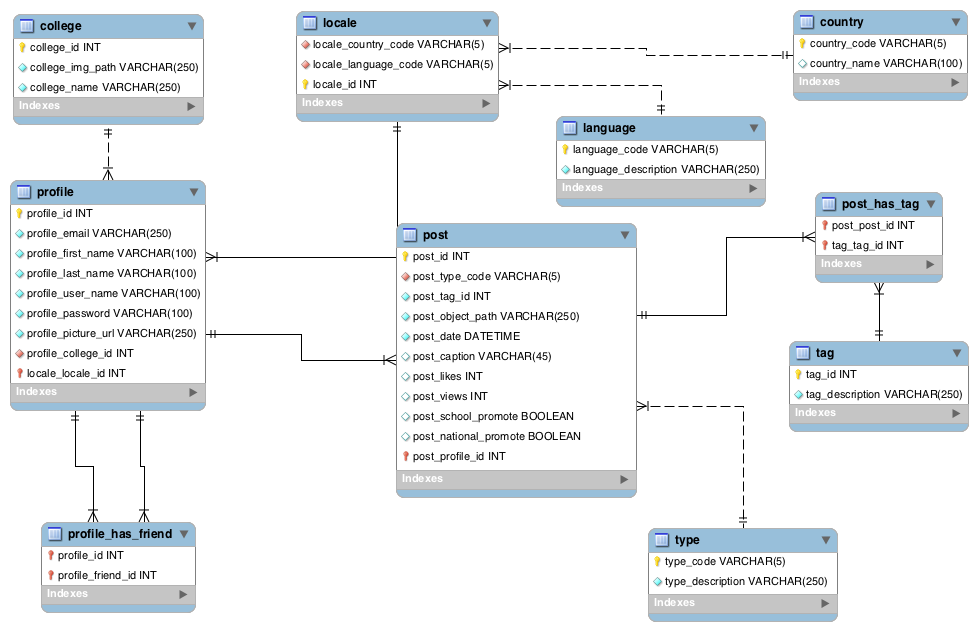
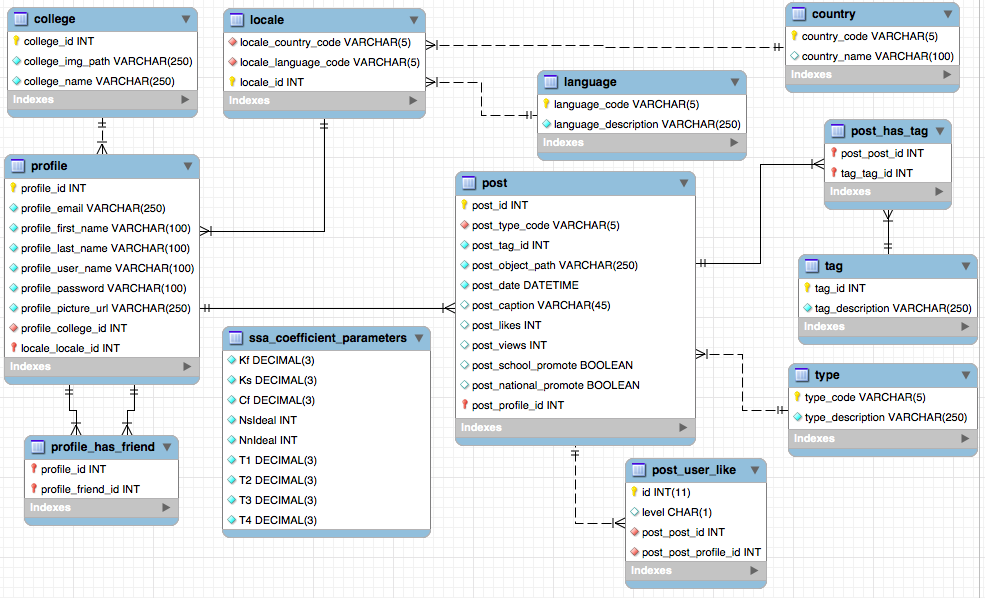
Updated SSA SQLs

diff --git a/Mote/src/main/java/com/mt/models/dao/PostDao.java b/Mote/src/main/java/com/mt/models/dao/PostDao.java
@@ -61,10 +61,14 @@ public class PostDao {
 	 * Instead of using a List<Post> what other existing Java collections data structure I could use that would do
 	 * this process more efficiently for time complexity [performance] and space complexity [memory footprint].
 	 */
-	
+	/**
+	 * old:  SELECT P FROM Post as P WHERE post_school_promote = false AND post_national_promote = false ORDER BY postDate DESC
+	 * new:  SELECT P FROM Post as P WHERE P.post_school_promote = false AND P.post_national_promote = false ORDER BY P.post_date DESC
+	 * @return
+	 */
 	@SuppressWarnings("unchecked")
 	public List<Post> getFriendFeedPosts() {
-		return _entityManager.createQuery("SELECT P FROM Post as P WHERE school_promote = false AND national_promote = false ORDER BY postDate DESC")
+		return _entityManager.createQuery("SELECT P FROM Post as P WHERE P.postSchoolPromote = false AND P.postNationalPromote = false ORDER BY P.postDate DESC")
 				.getResultList();
 	}
 	
@@ -72,12 +76,12 @@ public class PostDao {
 		
 		//Q. Which logic updates the school_promote? So that we can calculate Ns.
 		//Ans. See the method promotePostToSchoolFeed, which is called after algorithm calculation
-		return (Long)_entityManager.createQuery("SELECT COUNT(P.school_promote) AS Ns FROM Post as P WHERE school_promote = true")
+		return (Long)_entityManager.createQuery("SELECT COUNT(P.postSchoolPromote) AS Ns FROM Post as P WHERE P.postSchoolPromote = true")
 				.getSingleResult();
 	}
 	
 	public int promotePostToSchoolFeed(long postId) {
-		return _entityManager.createQuery("UPDATE Post SET school_promote = true WHERE id = :postId")
+		return _entityManager.createQuery("UPDATE Post SET P.postSchoolPromote = true WHERE P.postId = :postId")
 				.setParameter("postId", postId)
 				.executeUpdate();
 	}
@@ -86,7 +90,7 @@ public class PostDao {
 	
 	@SuppressWarnings("unchecked")
 	public List<Post> getSchoolFeedPosts() {
-		return _entityManager.createQuery("SELECT P FROM Post as P WHERE school_promote = true AND national_promote = false ORDER BY postDate DESC")
+		return _entityManager.createQuery("SELECT P FROM Post as P WHERE P.postSchoolPromote = true AND P.postNationalPromote = false ORDER BY P.postDate DESC")
 				.getResultList();
 	}
 	
@@ -99,7 +103,7 @@ public class PostDao {
 	 * @return
 	 */
 	public Long getCl(long collegeId) {
-		return (Long)_entityManager.createQuery("SELECT SUM(likes) AS Cl FROM Post as P JOIN User as U WHERE P.profileId = U.profileId AND U.profileCollege.collegeId = :collegeId")
+		return (Long)_entityManager.createQuery("SELECT SUM(P.likes) AS Cl FROM Post as P JOIN Profile as U ON P.profileId = U.profileId WHERE U.profileCollege = :collegeId")
 				.setParameter("collegeId", collegeId)
 				.getSingleResult();
 	}
@@ -113,7 +117,7 @@ public class PostDao {
 	 * @return
 	 */
 	public Long getClIdealAvg(long collegeId) {
-		return (Long)_entityManager.createQuery("SELECT SUM(likes) AS Cl FROM Post as P WHERE college_id = :collegeId")
+		return (Long)_entityManager.createQuery("SELECT SUM(P.likes) AS Cl FROM Post as P JOIN Profile as U ON P.profileId = U.profileId")
 				.setParameter("collegeId", collegeId)
 				.getSingleResult();
 	}
@@ -127,13 +131,13 @@ public class PostDao {
 	 * @return
 	 */
 	public Long getCpn(long collegeId) {
-		return (Long)_entityManager.createQuery("SELECT COUNT(*) AS Cpn FROM Post as P WHERE college_id = :collegeId")
+		return (Long)_entityManager.createQuery("SELECT COUNT(P.postId) AS Cpn FROM Post as P JOIN Profile as U ON P.profileId = U.profileId WHERE U.profileCollege = :collegeId")
 				.setParameter("collegeId", collegeId)
 				.getSingleResult();
 	}
 	
 	public int promotePostToNationalFeed(long postId) {
-		return _entityManager.createQuery("UPDATE Post SET national_promote = true WHERE id = :postId")
+		return _entityManager.createQuery("UPDATE Post as P SET P.postNationalPromote = true WHERE P.postId = :postId")
 				.setParameter("postId", postId)
 				.executeUpdate();
 	}

diff --git a/Mote/src/main/java/com/mt/models/dao/UserDao.java b/Mote/src/main/java/com/mt/models/dao/UserDao.java
@@ -152,39 +152,64 @@ public class UserDao{
 	 * @return
 	 */
 	public Long getCr(long collegeId) {
-		return (Long)_entityManager.createQuery("SELECT COUNT(user_id) AS Cr FROM User as U WHERE college_id = :collegeId")
+		return (Long)_entityManager.createQuery("SELECT COUNT(U.profileId) AS Cr FROM Profile as U WHERE U.profile_college_id = :collegeId")
 				.setParameter("collegeId", collegeId)
 				.getSingleResult();
 	}
 	
 	/**
 	 * CrIdealAvg - the average number of 'people' registered per school.
+	 * CrIdealAvg - the average number of 'people' registered by the total number of register schools.
+	 * 
 	 * New Data Model
 	 * SELECT A.idcollege, COUNT(B.idprofile) FROM college A JOIN profile B ON A.idprofile = B.idprofile GROUP BY A.idcollege
 	 * 
 	 * select sum(TempTable.ProfileTotal)/TempTable.count(*) From (select a.idcollege College, count(b.idprofile) ProfileTotal from college A join profile B on a.idcollege=b.college) TempTable
 	 * 
 	 * declare cursor c_average
-select a.idcollege College, count(b.idprofile) ProfileTotal from college A join profile B on a.idcollege=b.college;
-
-
-SchoolNumber Int;
-TotalStudents int;
-
-For each row in c_average
-  SchoolNumber ++;
-  TotalStudents=  profileTotal + TotalStudents;
-End For
-
-Average= TotalStudetns/SchoolNumber;
-
-Return Average
+	 * select a.collegeId College, count(b.profileId) ProfileTotal from college A join profile B on a.collegeId=b.profileCollegeId;
+	 * 
+	 * SchoolNumber Int;
+	 * TotalStudents int;
+	 * 
+	 * For each row in c_average
+	 *   SchoolNumber ++;
+	 *   TotalStudents=  profileTotal + TotalStudents;
+	 * End For
+	 * 
+	 * Average= TotalStudetns/SchoolNumber;
+	 * 
+	 * Return Average
+	 * 
+	 * 
+	 * collegeID      profile total
+	 *    FSU             1,500
+	 *    UVA             500
+	 *    NCSU            500
+	 *    
+	 * SchoolNumber = 3
+	 * TotalStudents = 2,000
+	 * 
+	 * Average = 2,000 / 3
 	 * 
 	 * @param collegeId
 	 * @return
 	 */
 	public Long getCrIdealAvg() {
-		return (Long)_entityManager.createQuery("SELECT COUNT(user_id) AS Cr FROM User as U WHERE college_id = :collegeId")
+		return (Long)_entityManager.createQuery("declare cursor c_average "
+				+ "SELECT C.collegeId College, COUNT(U.profileId) ProfileTotal FROM college C JOIN profile U ON C.collegeId = U.profileCollegeId;"
+				+ ""
+				+ "SchoolNumber Int;"
+				+ "TotalStudents int;"
+				+ ""
+				+ "For each row in c_average"
+				+ "  SchoolNumber ++;"
+				+ "  TotalStudents=  profileTotal + TotalStudents;"
+				+ "End For"
+				+ ""
+				+ "Average = TotalStudetns / SchoolNumber;"
+				+ ""
+				+ "Return Average")
 				.getSingleResult();
 	}
 }

diff --git a/Mote/src/main/java/com/mt/algorithm/ssa/SSAJob.java b/Mote/src/main/java/com/mt/algorithm/ssa/SSAJob.java
@@ -53,7 +53,7 @@ public class SSAJob {
 		 * 
 		 * To get the count of school and 
 		 *  
-		 * First I'll algorithm working and then I'll improve performance/memory footprint.
+		 * First I'll get the algorithm working and then I'll improve performance/memory footprint.
 		 */
 		
 		for(int i = 0; i < friendPosts.size(); i++) {
@@ -71,9 +71,9 @@ public class SSAJob {
 	
 	/**
 	 * 
-	 * @param V
-	 * @param L
-	 * @param Ns
+	 * @param V a long value that represents the number of 'views' on a post.
+	 * @param L a long value that represents the number of 'likes' on a post.
+	 * @param Ns a long value that represents the number of 'posts' in School Feed.
 	 * @param postId
 	 */
 	public void examineFriendFeedPost(long V, long L, long Ns, long postId) {
@@ -87,7 +87,7 @@ public class SSAJob {
 	
 	/**
 	 * 
-	 * @param Ns
+	 * @param Ns a long value that represents the number of 'posts' in School Feed.
 	 * @param schoolPost
 	 */
 	public void examineSchoolFeedPost(long Ns, Post schoolPost) {
@@ -102,7 +102,7 @@ public class SSAJob {
 		long Cr = _userDao.getCr(collegeId);
 		long Cl = _postDao.getCl(collegeId);
 		long Cpn = _postDao.getCpn(collegeId);
-		double CrIdealAvg = 0.0; //pending!
+		double CrIdealAvg = _userDao.getCrIdealAvg(); //pending!
 		double ClIdealAvg = 0.0; //pending!
 		double CpnAvg = 0.0; //pending!
 		

diff --git a/Mote/src/main/java/com/mt/models/Post.java b/Mote/src/main/java/com/mt/models/Post.java
@@ -48,10 +48,10 @@ public class Post {
 	@Column(name="post_caption")
 	private String postCaption;
 
-	@Column(name="views")
+	@Column(name="post_views")
 	private long views;
 
-	@Column(name="likes")
+	@Column(name="post_likes")
 	private long likes;
 
 	@Column(name="post_school_promote")

diff --git a/Mote/src/main/java/com/mt/algorithm/ssa/SSACalculator.java b/Mote/src/main/java/com/mt/algorithm/ssa/SSACalculator.java
@@ -44,7 +44,7 @@ public enum SSACalculator {
 	
 	// School Feed to National Feed Threshold Ratio.
 	Ks(0.2); // calls constructor with value 0.2
-		
+	
 	// Preliminary Post Coefficient.
 	private final double Cf = 0.5;
 	
